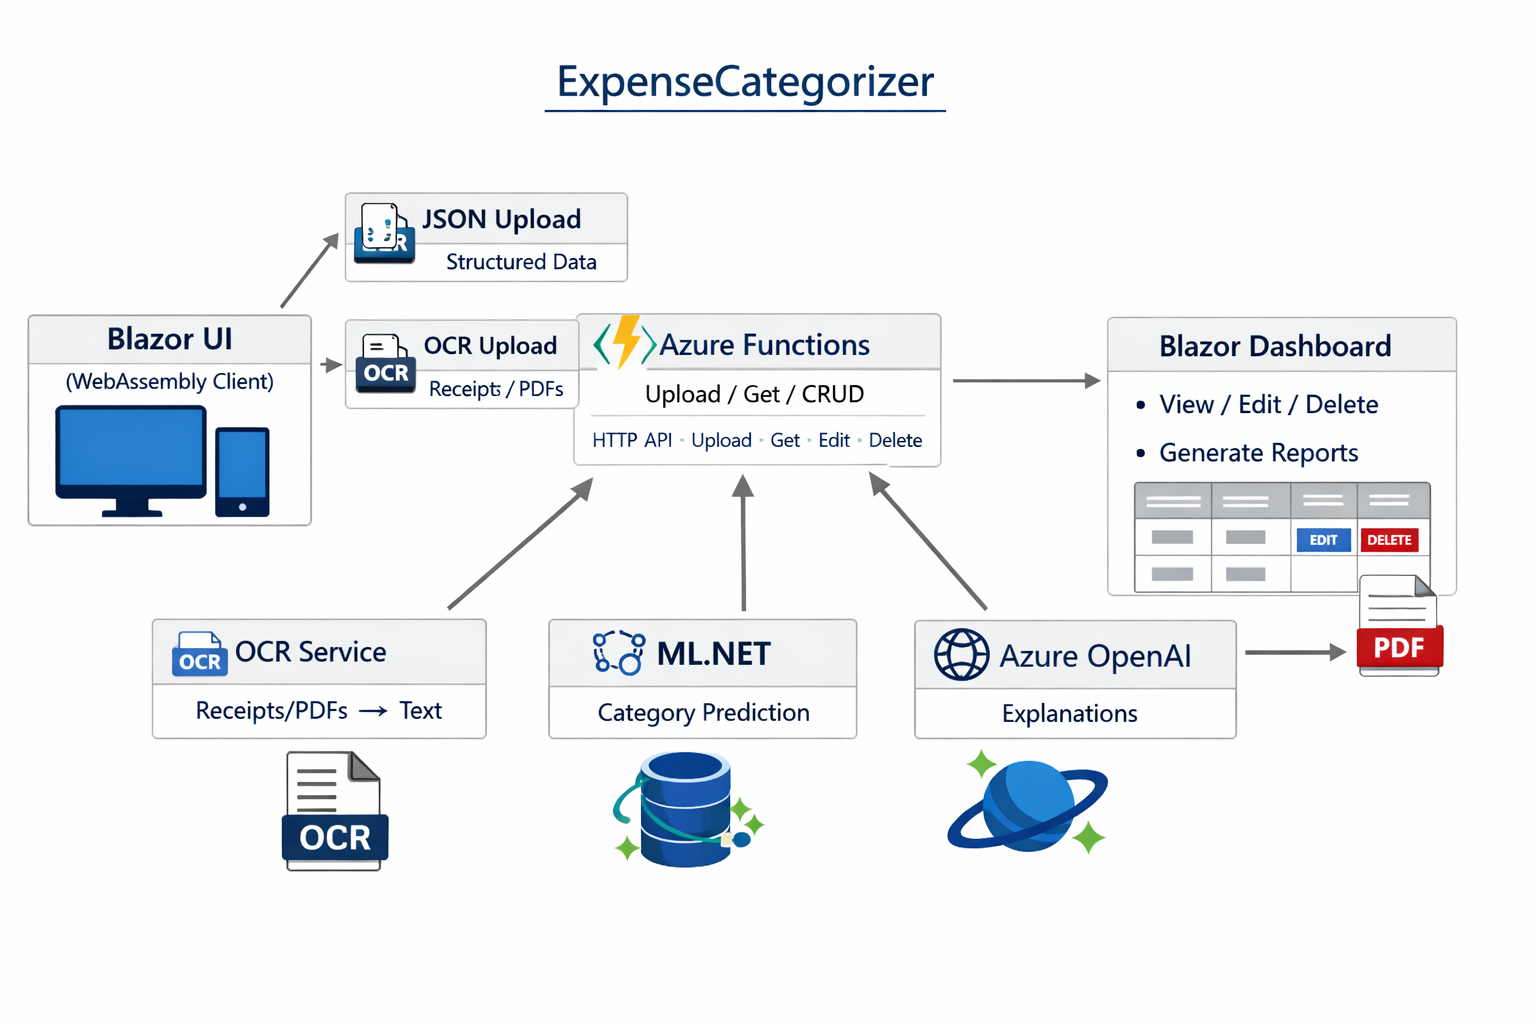
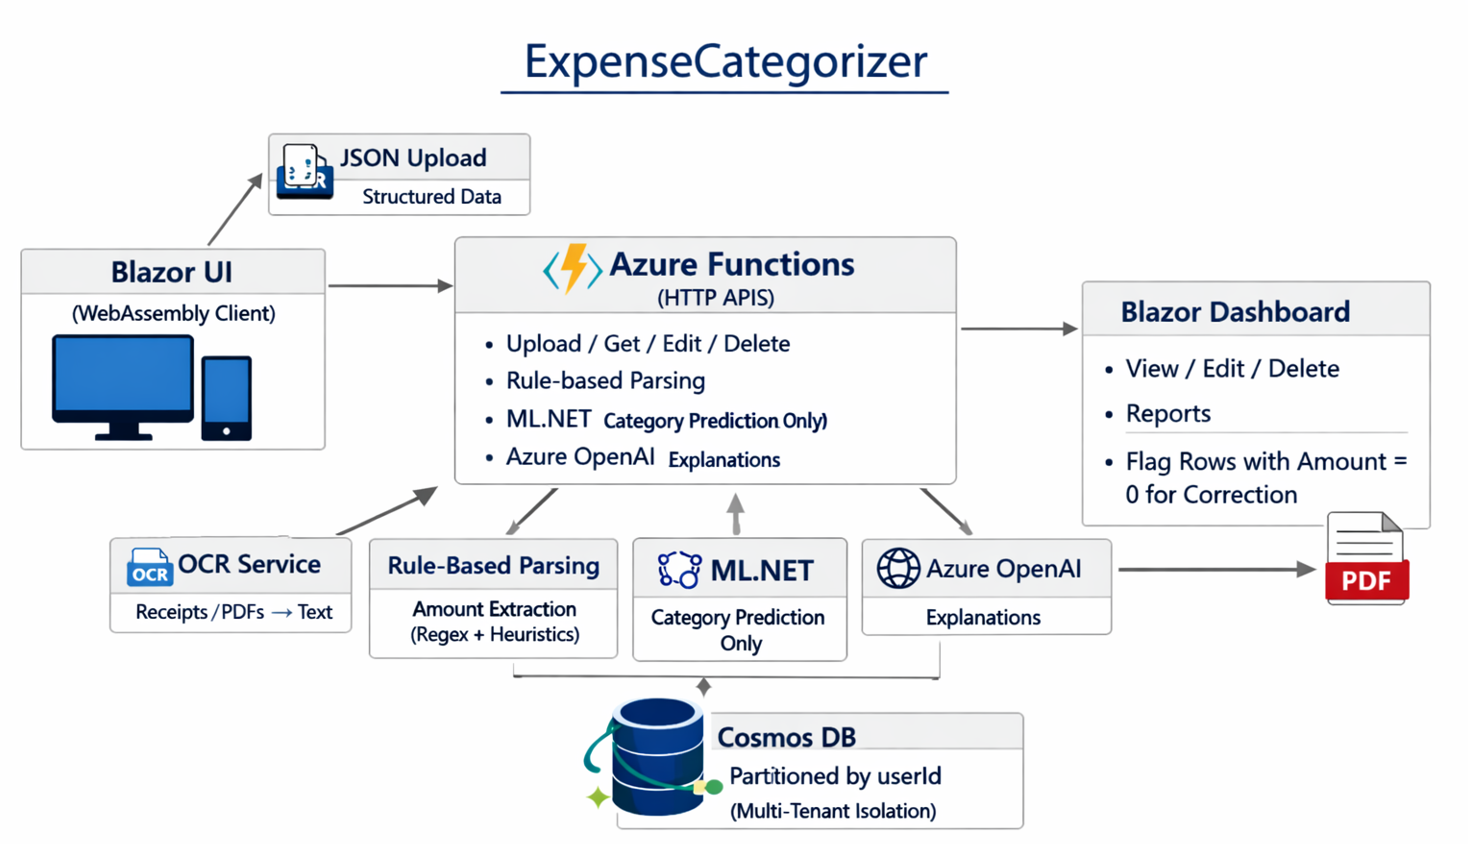
UI changes

Changed region(s): [[0.0, 0.154, 0.9809, 0.9858], [0.3372, 0.0308, 0.6437, 0.1232], [0.6744, 0.955, 0.705, 0.9858]]

diff --git a/ExpenseCategorizer.Client/wwwroot/css/app.css b/ExpenseCategorizer.Client/wwwroot/css/app.css
@@ -101,3 +101,9 @@ a, .btn-link {
 code {
     color: #c02d76;
 }
+
+.highlight-row {
+    background-color: #fff3cd; /* soft yellow */
+    border-left: 4px solid #ffc107;
+    transition: background-color 0.5s ease; /* smooth fade-in */
+}

diff --git a/README.md b/README.md
@@ -15,6 +15,7 @@ It showcases dual-mode expense uploads, automated categorization, and human-in-t
 - **Automated Categorization**
   - ML.NET predicts expense categories (Food, Travel, Utilities, Entertainment, etc.).
   - Azure OpenAI generates human-readable explanations for each categorization.
+  - Amounts are parsed with rule‑based heuristics (regex + cleaning). ML is used only for category prediction. 
 
 - **Human-in-the-Loop Correction**
   - Inline **Edit/Delete** buttons in the dashboard.
@@ -24,16 +25,17 @@ It showcases dual-mode expense uploads, automated categorization, and human-in-t
 - **Cloud-Native Architecture**
   - Blazor WebAssembly frontend.
   - Azure Functions backend APIs (`UploadExpense`, `GetExpenses`, `UpdateExpense`, `DeleteExpense`).
-  - Cosmos DB for scalable storage.
+  - Cosmos DB for scalable storage, partitioned by userid for multi tenant isolation.
 
 ---
 
 ## 📷 Demo Flow
 
 1. Upload a **JSON file** → clean entries saved.
-2. Upload a **PDF receipt** → OCR extracts items, categories predicted.
-3. Dashboard shows all expenses → edit/delete available.
-4. Rows with missing amounts (`0`) are flagged → user corrects them.
+2. Upload a **handwritten receipt** → OCR extracts items, categories predicted, amounts parsed reliably.
+3. Upload a **PDF receipt** → OCR extracts items, categories predicted.
+4. Dashboard shows all expenses → edit/delete available.
+5. Rows with missing amounts (`0`) are flagged → user corrects them.
 
 ---
 
@@ -61,13 +63,7 @@ It showcases dual-mode expense uploads, automated categorization, and human-in-t
 1. Clone the repo:
    ```bash
    git clone https://github.com/svkshailendra/ExpenseCategorizer.git
-
-## 📸 Screenshots
-![Home Page](docs/Home.png)  
-![Upload Page](docs/upload.png)
-![Dashboard](docs/dashboard.png)
-![Report Page](docs/report.png)
-
+	
 ## ⚙ Setup
 1. Install .NET 8 SDK and Azure Functions Core Tools.
 2. Clone the repo:
@@ -78,6 +74,13 @@ It showcases dual-mode expense uploads, automated categorization, and human-in-t
 5. Run the Functions backend:
    func start
 
+## 📸 Screenshots
+![Home Page](docs/Home.png)  
+![Upload Page](docs/upload.png)
+![Dashboard](docs/dashboard.png)
+![Report Page](docs/report.png)
+
+
 ## 🗺 Architecture Overview
 
 The system is composed of:
@@ -85,9 +88,9 @@ The system is composed of:
 - **Blazor WebAssembly** frontend for UI.
 - **Azure Functions** backend APIs (Upload, Get, Update, Delete).
 - **OCR Service** (Azure Cognitive Services) for non‑JSON uploads.
-- **ML.NET** for automated categorization.
+- **ML.NET** for category prediction only.
 - **Azure OpenAI** for generating explanations.
-- **Cosmos DB** for scalable storage, partitioned by category.
+- **Cosmos DB** for scalable storage, partitioned by userid.
 - **Dashboard** for human‑in‑the‑loop correction and reporting.
 
 ![Architecture](docs/Architecture.png)
@@ -95,7 +98,7 @@ The system is composed of:
 
 ## 🗺 Roadmap
 - Add charts for category totals and monthly trends.
-- Multi-user authentication with Azure AD B2C.
+- ~~Multi-user authentication with Azure AD B2C.~~
 - Export reports to CSV/Excel.
 - Enhanced error handling with toast notifications.
 
